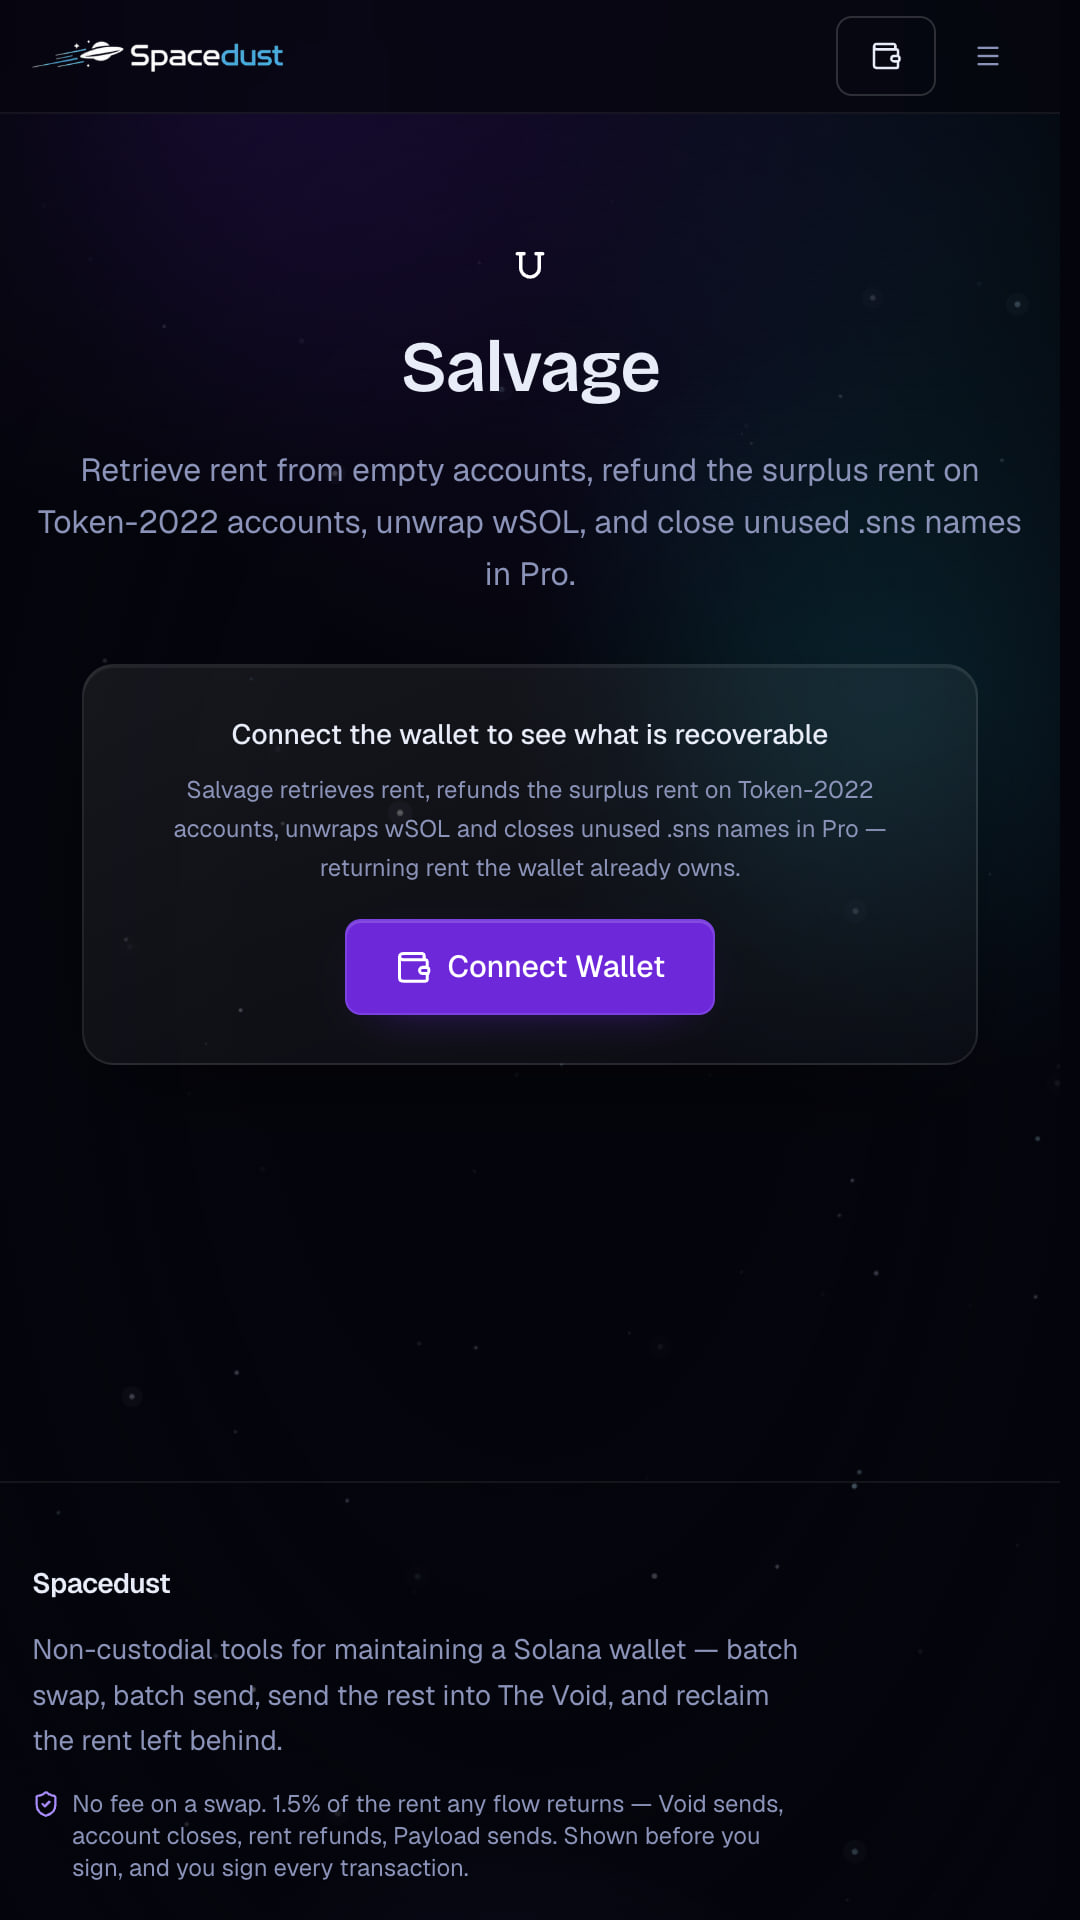
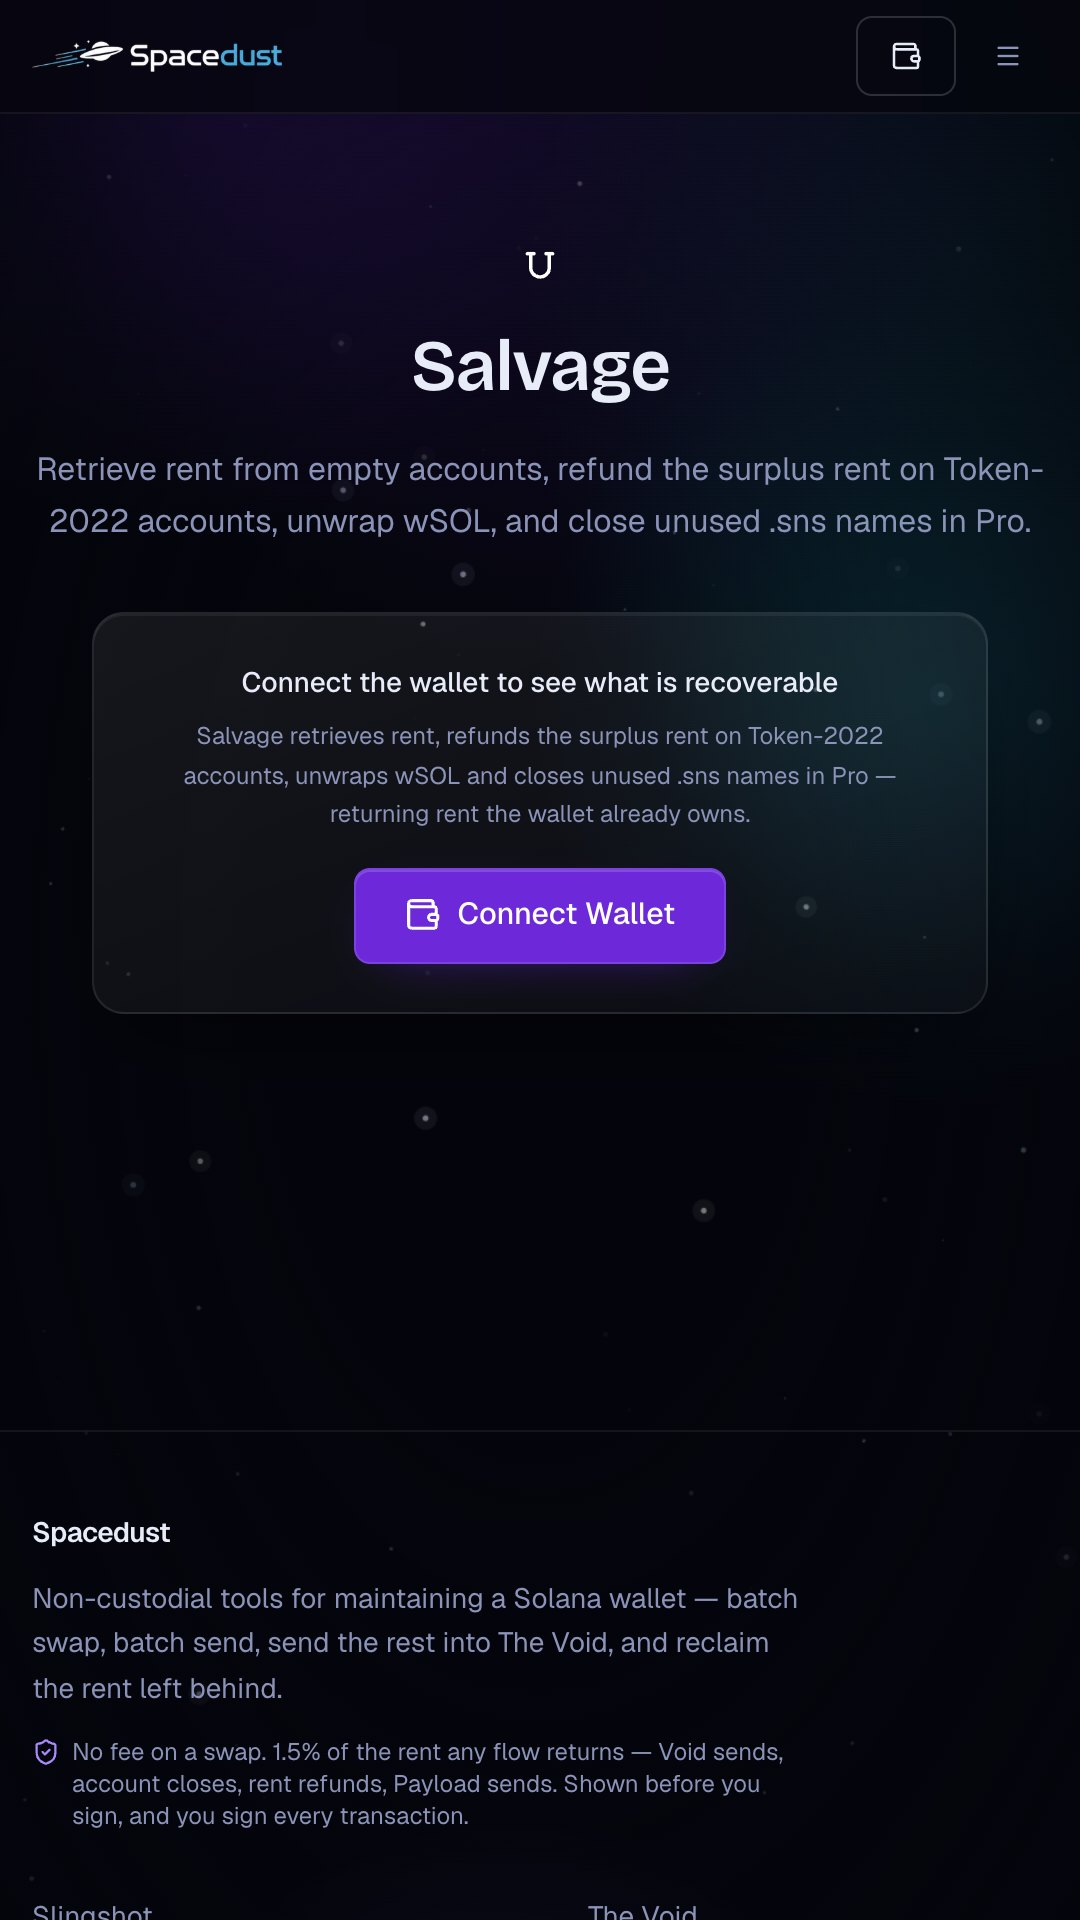
Capture the hero with its textures and the scan card under it

diff --git a/docs/listing-assets.md b/docs/listing-assets.md
@@ -7,7 +7,8 @@ attachment.
 | File | Size | Format | Use |
 |---|---|---|---|
 | [`banner-1200x600.png`](https://spacedust.cc/press/banner-1200x600.png) | 1200×600 | PNG | Solana dApp Store banner; Phantom/Solflare headers |
-| [`screenshot-1-landing.jpg`](https://spacedust.cc/press/screenshot-1-landing.jpg) | 1080×1920 | JPEG | Landing page |
+| [`screenshot-1-landing.jpg`](https://spacedust.cc/press/screenshot-1-landing.jpg) | 1080×3120 | JPEG | Hero **and** the wallet scan entry point below it |
+| [`screenshot-1b-landing-9x16.jpg`](https://spacedust.cc/press/screenshot-1b-landing-9x16.jpg) | 1080×1920 | JPEG | The same hero at 9:16, for stores that insist on it |
 | [`screenshot-2-scan.jpg`](https://spacedust.cc/press/screenshot-2-scan.jpg) | 1080×1920 | JPEG | Read-only scan |
 | [`screenshot-3-salvage.jpg`](https://spacedust.cc/press/screenshot-3-salvage.jpg) | 1080×1920 | JPEG | Salvage tools before connecting |
 | [`screenshot-4-slingshot.jpg`](https://spacedust.cc/press/screenshot-4-slingshot.jpg) | 1080×1920 | JPEG | Batch swap |
@@ -28,16 +29,24 @@ Icon, unchanged and already in use: https://spacedust.cc/dapp-icon-v3-512.png
 
 ## How they were produced
 
-- **Screenshots:** headless Chrome against the production deployment at a
-  540×960 phone viewport with `--force-device-scale-factor=2`, so each is
-  1080×1920 with real text rendering, then converted to JPEG (quality 86,
-  4:4:4, no chroma loss on UI text). Dark UI, mean luminance 14–24/255.
-- **Software WebGL is required, or the saucer vanishes without a word.**
-  `--use-gl=angle --use-angle=swiftshader --enable-unsafe-swiftshader` — and
-  *not* `--disable-gpu`. `components/landing/ufo-model.tsx` treats a failed
+- **Screenshots:** `node scripts/capture-store-shots.mjs` against the production
+  deployment. It drives Chrome over the DevTools Protocol — mobile emulation at
+  540×960 with `deviceScaleFactor: 2`, ANGLE **Metal** for the real GPU, a clip
+  so each file is 1080 wide with no post-processing, and a wait on the app's own
+  readiness signal rather than a stopwatch. Dark UI, mean luminance 14–24/255.
+- **The saucer's textures had never loaded in production.** The GLB carries four
+  WebP textures, and three's GLTFLoader hands embedded images to
+  ImageBitmapLoader through a `blob:` URL — which `connect-src` blocked. The
+  console said `THREE.GLTFLoader: Couldn't load texture blob:…` and the model
+  still drew, untextured, so nothing looked broken enough to investigate. Fixed
+  by allowing `blob:` in `connect-src` (`lib/security/csp.ts`, pinned by
+  `csp.test.ts`). Before the fix the saucer's bounding box measured 0.0% bright
+  pixels and 198 distinct colours; after, 6.2% and 1,611.
+- **Software WebGL is not good enough.** `--use-gl=angle --use-angle=swiftshader`
+  renders this model flat even with the textures loading, and `--disable-gpu`
+  removes the scene entirely: `components/landing/ufo-model.tsx` treats a failed
   `WebGLRenderer` constructor as "this visitor cannot have the model" and stays
-  quiet by design, so a capture without WebGL silently produces a hero with the
-  glow and orbit rings but no ship. That was the first version of these files.
+  quiet by design. That is how the first version of these files was made.
 - **No wallet was connected** for any capture. That is deliberate: no balance,
   address or holding of any real wallet appears in a public listing, and the
   states shown are the ones a first-time visitor sees.
@@ -56,20 +65,31 @@ Icon, unchanged and already in use: https://spacedust.cc/dapp-icon-v3-512.png
     twice.
   - **No meteor,** though the app draws them: a meteor is a motion cue, and
     frozen in a still it reads as a scratch on the artwork.
-- Verified after generation: every screenshot is 1080×1920 and carries
-  0.5–1.0% bright text pixels (i.e. rendered, not blank), and the banner's
-  text strip is non-empty.
+- Verified after generation: the clip is 540×960 or 540×1560 CSS at 2×, so every
+  file is 1080 wide and nothing is upscaled; the saucer's box carries 5.4%
+  bright pixels (textures decoded) and the scan card below the hero carries ink
+  of its own rather than an empty band; and the banner's three text blocks all
+  measure centred on x=600.
 
 ## Regenerating
 
 ```sh
-# screenshots: fresh captures from production
-CHROME='/Applications/Google Chrome.app/Contents/MacOS/Google Chrome'
-"$CHROME" --headless=new --hide-scrollbars \
-  --use-gl=angle --use-angle=swiftshader --enable-unsafe-swiftshader \
-  --force-device-scale-factor=2 --window-size=540,960 \
-  --virtual-time-budget=25000 --screenshot=/tmp/shot.png https://spacedust.cc/
+# screenshots: fresh captures from production, straight into public/press/
+node scripts/capture-store-shots.mjs
+
+# point it somewhere else (a preview build), or at another Chrome
+node scripts/capture-store-shots.mjs http://localhost:3000
+CHROME_PATH=/path/to/chrome node scripts/capture-store-shots.mjs
 ```
+
+The script reports the page's own console errors next to each file. Treat any
+line starting `!` as a failed capture and investigate before publishing it —
+that is how the missing textures were found.
+
+The banner is not scripted in this repository; its recipe is the "Banner"
+bullet above: `space-950` base, the two body washes, the hero glow, the same
+starfield distribution, the wordmark at 780px wide centred on x=600 at y=168,
+the tagline at 32px all-caps on y=352, and the fee line at 20px on y=400.
 
 The 25 s budget is for the landing page specifically: three.js is imported
 inside an effect and the saucer is a ~1.8 MB GLB, so a shorter budget captures
